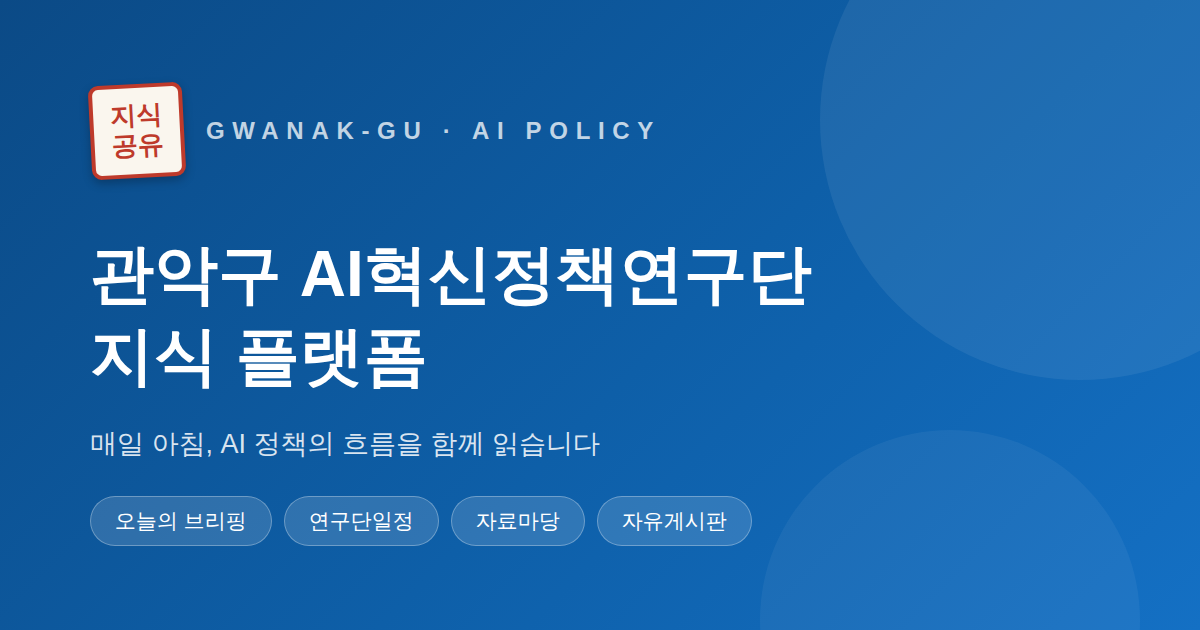
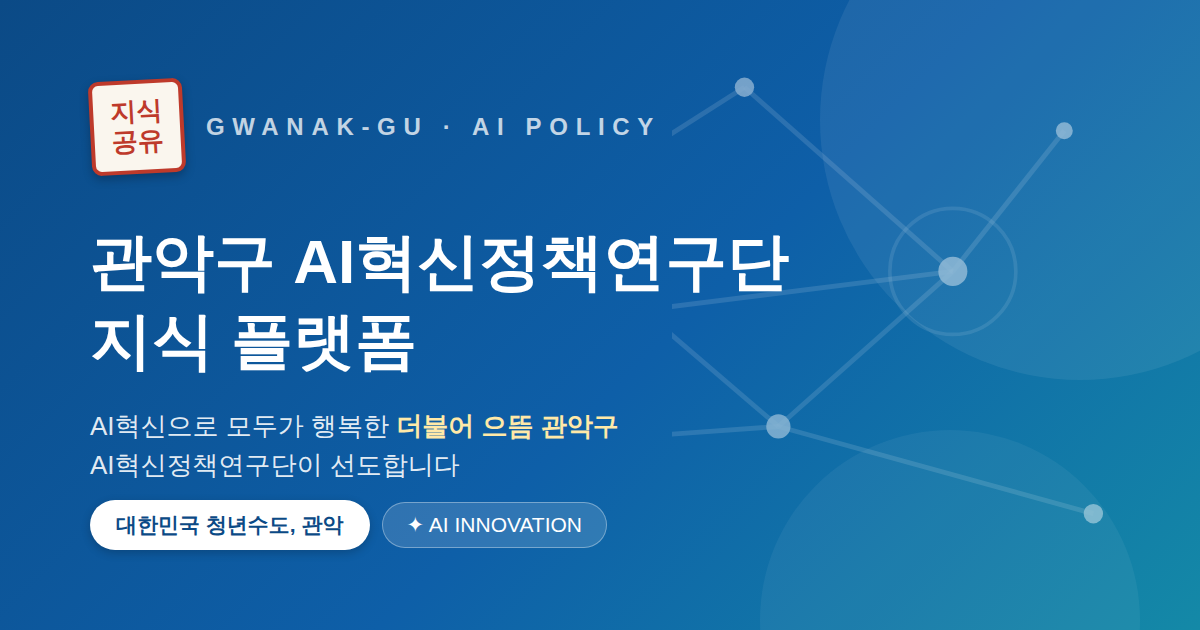
디자인 개편: 새 슬로건·청년수도 브랜드·AI 네트워크 장식·컴팩트 글쓰기 버튼
- 슬로건 교체: "AI혁신으로 모두가 행복한 더불어 으뜸 관악구 —
  AI혁신정책연구단이 선도합니다" (헤더·메타태그·og 이미지 일괄 반영)
- 히어로 개편: AI 신경망 노드 SVG 장식(금색 포인트), 이중 원형 광원,
  「대한민국 청년수도, 관악」 「✦ AI INNOVATION」 브랜드 칩 추가
- 글쓰기 버튼 축소: 전폭 점선 박스 → 검색창 옆 컴팩트 알약형 버튼
  (자료마당·자유게시판 공통, 열림 시 ✕ 닫기로 전환)
- 카드 호버 효과: 브리핑 카드 리프트, 자료·게시판 카드 그림자 강조
- og.png(카톡 미리보기) 새 슬로건·네트워크 장식으로 재생성

Claude-Session: https://claude.ai/code/session_012nUoWu7rsYxWtW9bPvGhCy

diff --git a/index.html b/index.html
@@ -4,14 +4,14 @@
 <meta charset="UTF-8">
 <meta name="viewport" content="width=device-width, initial-scale=1.0">
 <title>관악구 AI혁신정책연구단 지식 플랫폼</title>
-<meta name="description" content="매일 아침 발행되는 AI 정책 동향 브리핑과 연구단 일정·자료·소통 공간. 관악의 내일을 여는 AI 정책 인사이트.">
+<meta name="description" content="AI혁신으로 모두가 행복한 더불어 으뜸 관악구 — AI혁신정책연구단이 선도합니다. 매일 아침 발행되는 AI 정책 동향 브리핑과 연구단 일정·자료·소통 공간.">
 <link rel="canonical" href="https://hanpro.io/">
 <link rel="icon" type="image/png" href="/favicon.png">
 <link rel="apple-touch-icon" href="/apple-touch-icon.png">
 <!-- 카톡·SNS 공유 미리보기 (도메인 변경 시 og:url·og:image 주소도 함께 갱신) -->
 <meta property="og:type" content="website">
 <meta property="og:title" content="관악구 AI혁신정책연구단 지식 플랫폼">
-<meta property="og:description" content="매일 아침, AI 정책의 흐름을 함께 읽습니다 — 브리핑·일정·자료·소통 공간">
+<meta property="og:description" content="AI혁신으로 모두가 행복한 더불어 으뜸 관악구 — AI혁신정책연구단이 선도합니다">
 <meta property="og:url" content="https://hanpro.io/">
 <meta property="og:image" content="https://hanpro.io/og.png">
 <meta property="og:image:width" content="1200">
@@ -28,8 +28,20 @@
   html{scroll-behavior:smooth;}
   body{background:var(--bg);color:var(--ink);font-family:'Noto Sans KR',sans-serif;line-height:1.7;font-size:16px;}
   .serif{font-family:'Noto Serif KR',serif;}
-  .header-band{background:linear-gradient(135deg,var(--gwanak-deep) 0%,var(--gwanak) 70%,#1470C4 100%);color:#fff;}
-  header{padding:38px 24px 30px;max-width:920px;margin:0 auto;}
+  .header-band{position:relative;overflow:hidden;color:#fff;
+    background:linear-gradient(135deg,var(--gwanak-deep) 0%,var(--gwanak) 55%,var(--sky) 100%);}
+  .header-band::before{content:"";position:absolute;top:-90px;right:-70px;width:360px;height:360px;border-radius:50%;
+    background:radial-gradient(circle,rgba(255,255,255,.14),transparent 65%);}
+  .header-band::after{content:"";position:absolute;bottom:-120px;left:-80px;width:300px;height:300px;border-radius:50%;
+    background:radial-gradient(circle,rgba(20,137,167,.35),transparent 65%);}
+  .hero-deco{position:absolute;inset:0;pointer-events:none;}
+  .hero-deco svg{position:absolute;right:0;top:0;height:100%;width:min(48%,440px);opacity:.55;}
+  @media(max-width:640px){.hero-deco svg{width:70%;opacity:.3;}}
+  header{position:relative;z-index:1;padding:38px 24px 30px;max-width:920px;margin:0 auto;}
+  .hero-chips{margin-top:14px;display:flex;gap:8px;flex-wrap:wrap;}
+  .chip{font-size:12.5px;font-weight:700;letter-spacing:.02em;border-radius:999px;padding:5px 15px;line-height:1.5;word-break:keep-all;}
+  .chip-youth{background:#fff;color:var(--gwanak-deep);box-shadow:0 2px 8px rgba(0,0,0,.16);}
+  .chip-ai{background:rgba(255,255,255,.13);color:#fff;border:1px solid rgba(255,255,255,.4);}
   .masthead{display:flex;align-items:flex-start;gap:18px;}
   .seal{
     flex:none;width:54px;height:54px;
@@ -42,7 +54,8 @@
   }
   .masthead-text .eyebrow{font-size:12.5px;letter-spacing:.35em;color:rgba(255,255,255,.75);text-transform:uppercase;margin-bottom:5px;}
   .masthead-text h1{font-family:'Noto Serif KR',serif;font-size:clamp(24px,4.5vw,34px);font-weight:700;color:#fff;}
-  .masthead-text .tagline{margin-top:7px;color:rgba(255,255,255,.85);font-size:14.5px;}
+  .masthead-text .tagline{margin-top:7px;color:rgba(255,255,255,.88);font-size:14.5px;word-break:keep-all;}
+  .masthead-text .tagline strong{color:#FFE9A8;font-weight:700;}
   nav{
     max-width:920px;margin:0 auto;display:flex;gap:4px;padding:0 24px;
     border-bottom:1px solid var(--line);background:var(--card);
@@ -135,11 +148,15 @@
   .item.post.flash{animation:postFlash 2.5s ease;}
   @keyframes postFlash{0%,35%{background:#FFF6DC;}100%{background:transparent;}}
   /* ── 글쓰기 접기/펼치기 (목록 우선 배치) ── */
-  .write-toggle{display:flex;align-items:center;justify-content:center;gap:8px;width:100%;appearance:none;cursor:pointer;
-    background:#fff;border:1.5px dashed var(--gwanak);color:var(--gwanak-deep);border-radius:12px;
-    padding:13px 0;font-family:inherit;font-size:15px;font-weight:700;margin-bottom:14px;}
-  .write-toggle:hover{background:#EFF6FF;}
-  .write-toggle.open{border-style:solid;background:#EFF6FF;}
+  .list-toolbar{display:flex;gap:10px;align-items:center;margin-bottom:14px;}
+  .list-toolbar .filter-input{flex:1;min-width:0;margin-bottom:0;}
+  .write-toggle{appearance:none;cursor:pointer;flex:none;display:inline-flex;align-items:center;gap:6px;
+    background:var(--gwanak);color:#fff;border:1.5px solid var(--gwanak);border-radius:999px;padding:8px 18px;
+    font-family:inherit;font-size:14px;font-weight:700;white-space:nowrap;box-shadow:0 2px 8px rgba(14,95,168,.22);
+    transition:background .15s,box-shadow .15s;}
+  .write-toggle:hover{background:var(--gwanak-deep);border-color:var(--gwanak-deep);}
+  .write-toggle.open{background:#fff;color:var(--gwanak-deep);box-shadow:none;}
+  @media(max-width:480px){.write-toggle{padding:8px 13px;font-size:13.5px;}}
   .form-wrap{display:none;}
   .form-wrap.open{display:block;}
   /* ── 해외 및 기타 동향 단신 목록 ── */
@@ -240,7 +257,9 @@
   .type-tag{font-size:11.5px;font-weight:700;color:#fff;border-radius:5px;padding:2px 8px;}
   /* ── 자유게시판 ── */
   .board-card{background:var(--card);border:1px solid var(--line);border-radius:16px;
-    padding:20px 22px 18px;margin-bottom:14px;box-shadow:0 2px 10px rgba(14,95,168,.05);}
+    padding:20px 22px 18px;margin-bottom:14px;box-shadow:0 2px 10px rgba(14,95,168,.05);
+    transition:box-shadow .18s,border-color .18s;}
+  .board-card:hover{border-color:#BFD3E6;box-shadow:0 4px 14px rgba(14,95,168,.1);}
   .board-card.pinned{border-color:#E4C989;background:linear-gradient(180deg,#FFFDF5,#fff);}
   .pin-badge{display:inline-block;font-size:11.5px;font-weight:700;color:#fff;background:var(--gold);
     border-radius:5px;padding:2px 9px;margin-bottom:9px;}
@@ -387,6 +406,7 @@
     height:300px;display:flex;flex-direction:column;
     padding:18px 20px 0;box-shadow:0 2px 10px rgba(14,95,168,.05);
     position:relative;overflow:hidden;
+    transition:box-shadow .18s,transform .18s;
     transition:transform .18s ease,box-shadow .18s ease,border-color .18s ease;
   }
   .brief-card::before{content:"";position:absolute;left:0;top:0;bottom:0;width:4px;z-index:1;}
@@ -406,6 +426,7 @@
   .brief-card.more::after{content:"⌄";position:absolute;left:0;right:0;bottom:0;height:38px;pointer-events:none;
     background:linear-gradient(to bottom,rgba(255,255,255,0),var(--card) 82%);border-radius:0 0 15px 15px;
     text-align:center;color:var(--slate);font-size:15px;line-height:46px;font-weight:700;}
+  .brief-card:hover{transform:translateY(-2px);box-shadow:0 6px 18px rgba(14,95,168,.13);}
   .brief-empty{
     grid-column:1/-1;color:var(--muted);font-size:14px;background:#F7F9FC;
     border:1px dashed var(--line);border-radius:14px;padding:15px 20px;
@@ -414,7 +435,9 @@
   article.item{
     background:var(--card);border:1px solid var(--line);border-radius:10px;
     padding:20px 22px;margin-bottom:14px;box-shadow:0 1px 3px rgba(14,95,168,.05);
+    transition:box-shadow .18s,border-color .18s;
   }
+  article.item:hover{border-color:#BFD3E6;box-shadow:0 4px 14px rgba(14,95,168,.1);}
   article.item h3{font-family:'Noto Serif KR',serif;font-size:18px;font-weight:600;line-height:1.5;margin-bottom:8px;}
   article.item p{font-size:15px;color:#3B4756;}
   article.item a.src{font-size:13.5px;color:var(--gwanak);}
@@ -495,13 +518,38 @@
 <body>
 
 <div class="header-band">
+  <div class="hero-deco" aria-hidden="true">
+    <svg viewBox="0 0 440 260" preserveAspectRatio="xMaxYMid slice">
+      <g stroke="rgba(255,255,255,.22)" stroke-width="1" fill="none">
+        <line x1="60" y1="48" x2="158" y2="96"/><line x1="158" y1="96" x2="252" y2="36"/>
+        <line x1="252" y1="36" x2="338" y2="112"/><line x1="158" y1="96" x2="128" y2="186"/>
+        <line x1="128" y1="186" x2="266" y2="176"/><line x1="266" y1="176" x2="338" y2="112"/>
+        <line x1="338" y1="112" x2="384" y2="54"/><line x1="266" y1="176" x2="396" y2="212"/>
+        <line x1="158" y1="96" x2="210" y2="128"/><line x1="210" y1="128" x2="266" y2="176"/>
+        <line x1="210" y1="128" x2="338" y2="112"/><line x1="60" y1="48" x2="128" y2="186"/>
+      </g>
+      <g fill="rgba(255,255,255,.85)">
+        <circle cx="60" cy="48" r="3"/><circle cx="252" cy="36" r="2.5"/>
+        <circle cx="338" cy="112" r="3.5"/><circle cx="128" cy="186" r="2.5"/>
+        <circle cx="266" cy="176" r="3"/><circle cx="384" cy="54" r="2"/>
+        <circle cx="396" cy="212" r="2.5"/><circle cx="210" cy="128" r="2"/>
+      </g>
+      <circle cx="158" cy="96" r="5" fill="#F5C64F"/>
+      <circle cx="158" cy="96" r="10" fill="none" stroke="rgba(245,198,79,.45)" stroke-width="1.5"/>
+      <circle cx="338" cy="112" r="16" fill="none" stroke="rgba(255,255,255,.18)" stroke-width="1"/>
+    </svg>
+  </div>
   <header>
     <div class="masthead">
       <div class="seal" aria-hidden="true">지식<br>공유</div>
       <div class="masthead-text">
         <div class="eyebrow">GWANAK-GU · AI POLICY</div>
         <h1>관악구 AI혁신정책연구단 지식 플랫폼</h1>
-        <p class="tagline">관악의 내일을 여는 AI 정책 인사이트 — 매일 아침, 정책의 흐름을 함께 읽습니다.</p>
+        <p class="tagline">AI혁신으로 모두가 행복한 <strong>더불어 으뜸 관악구</strong> — AI혁신정책연구단이 선도합니다.</p>
+        <div class="hero-chips">
+          <span class="chip chip-youth">대한민국 청년수도, 관악</span>
+          <span class="chip chip-ai">✦ AI INNOVATION</span>
+        </div>
       </div>
     </div>
   </header>
@@ -1478,7 +1526,10 @@
       return;
     }
     resourcesView.innerHTML =
-      '<button type="button" class="write-toggle" id="res-write-toggle" aria-expanded="false">✏️ 새 자료 올리기</button>'
+      '<div class="list-toolbar">'
+      + '<input type="search" class="filter-input" id="res-filter" placeholder="🔎 자료 검색 — 제목·링크·코멘트·작성자">'
+      + '<button type="button" class="write-toggle" id="res-write-toggle" aria-expanded="false">✏️ 새 자료 올리기</button>'
+      + '</div>'
       + '<p class="form-ok" id="post-ok" role="status"></p>'
       + '<div class="form-wrap" id="res-form-wrap"><div class="post-form">'
       + '<div class="res-type" role="group" aria-label="자료 유형 선택">'
@@ -1496,7 +1547,6 @@
       + '<button type="submit" class="btn-primary" id="post-submit">등록하기</button>'
       + '<p class="form-error" id="post-error" role="alert"></p>'
       + '</form></div></div>'
-      + '<input type="search" class="filter-input" id="res-filter" placeholder="🔎 자료 검색 — 제목·링크·코멘트·작성자">'
       + '<div id="post-list"><p class="status">자료를 불러오는 중입니다…</p></div>';
     document.getElementById("post-form").addEventListener("submit", submitPost);
     document.getElementById("res-filter").addEventListener("input", paintPosts);
@@ -1519,7 +1569,7 @@
     wrap.classList.toggle("open", isOpen);
     btn.classList.toggle("open", isOpen);
     btn.setAttribute("aria-expanded", isOpen ? "true" : "false");
-    btn.textContent = isOpen ? "▴ 글쓰기 접기" : "✏️ 새 자료 올리기";
+    btn.textContent = isOpen ? "✕ 닫기" : "✏️ 새 자료 올리기";
     if (isOpen) document.getElementById("post-title").focus();
   }
 
@@ -2060,7 +2110,10 @@
       return;
     }
     boardRoot.innerHTML =
-      '<button type="button" class="write-toggle" id="fp-write-toggle" aria-expanded="false">✏️ 새 글 쓰기</button>'
+      '<div class="list-toolbar">'
+      + '<input type="search" class="filter-input" id="fp-filter" placeholder="🔎 글 검색 — 제목·내용·작성자">'
+      + '<button type="button" class="write-toggle" id="fp-write-toggle" aria-expanded="false">✏️ 새 글 쓰기</button>'
+      + '</div>'
       + '<p class="form-ok" id="fp-ok" role="status"></p>'
       + '<div class="form-wrap" id="fp-form-wrap"><div class="post-form"><form id="fp-form">'
       + '<div class="field"><label for="fp-title">제목 <span style="color:#A33;">*</span></label>'
@@ -2071,7 +2124,6 @@
       + '<label class="checkbox-row"><input type="checkbox" id="fp-pin"> 공지로 상단 고정</label>'
       + '<button type="submit" class="btn-primary" id="fp-submit">등록하기</button>'
       + '<p class="form-error" id="fp-error" role="alert"></p></form></div></div>'
-      + '<input type="search" class="filter-input" id="fp-filter" placeholder="🔎 글 검색 — 제목·내용·작성자">'
       + '<div id="fp-list"><p class="status">글을 불러오는 중입니다…</p></div>';
     document.getElementById("fp-form").addEventListener("submit", submitFreePost);
     document.getElementById("fp-filter").addEventListener("input", paintBoard);
@@ -2087,7 +2139,7 @@
     wrap.classList.toggle("open", isOpen);
     btn.classList.toggle("open", isOpen);
     btn.setAttribute("aria-expanded", isOpen ? "true" : "false");
-    btn.textContent = isOpen ? "▴ 글쓰기 접기" : "✏️ 새 글 쓰기";
+    btn.textContent = isOpen ? "✕ 닫기" : "✏️ 새 글 쓰기";
     if (isOpen) document.getElementById("fp-title").focus();
   }
 